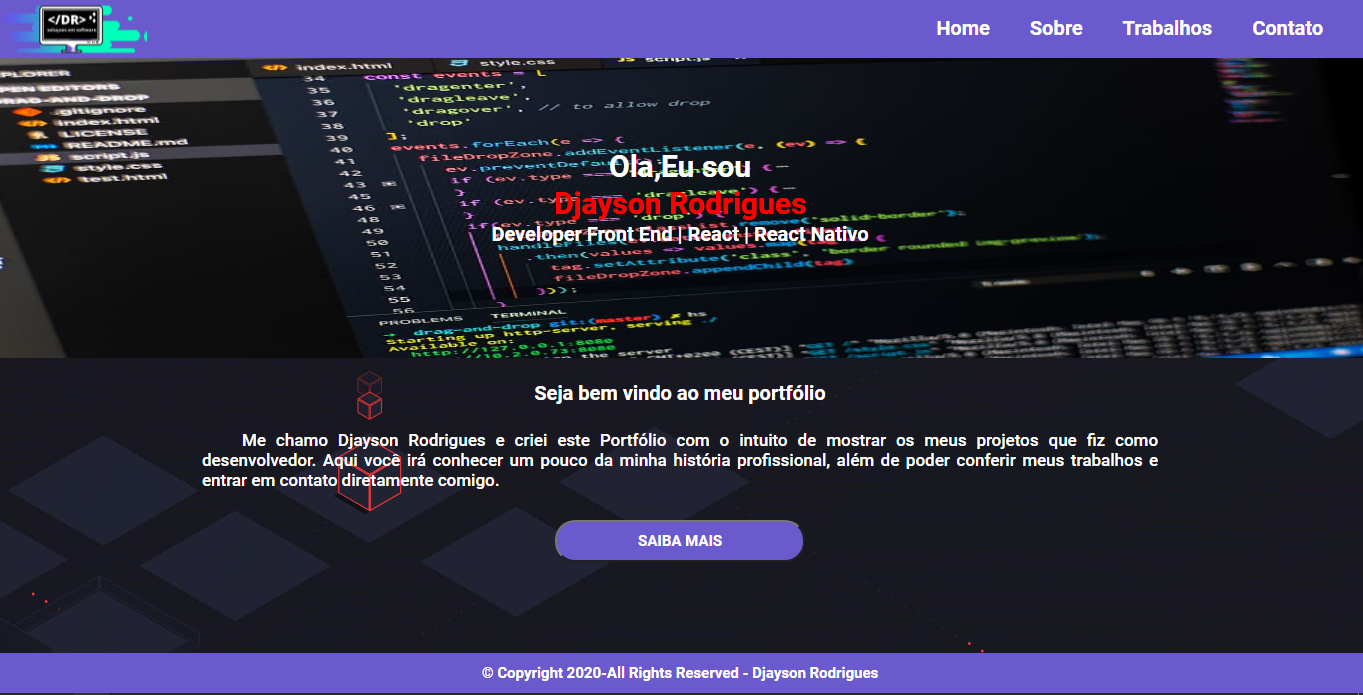
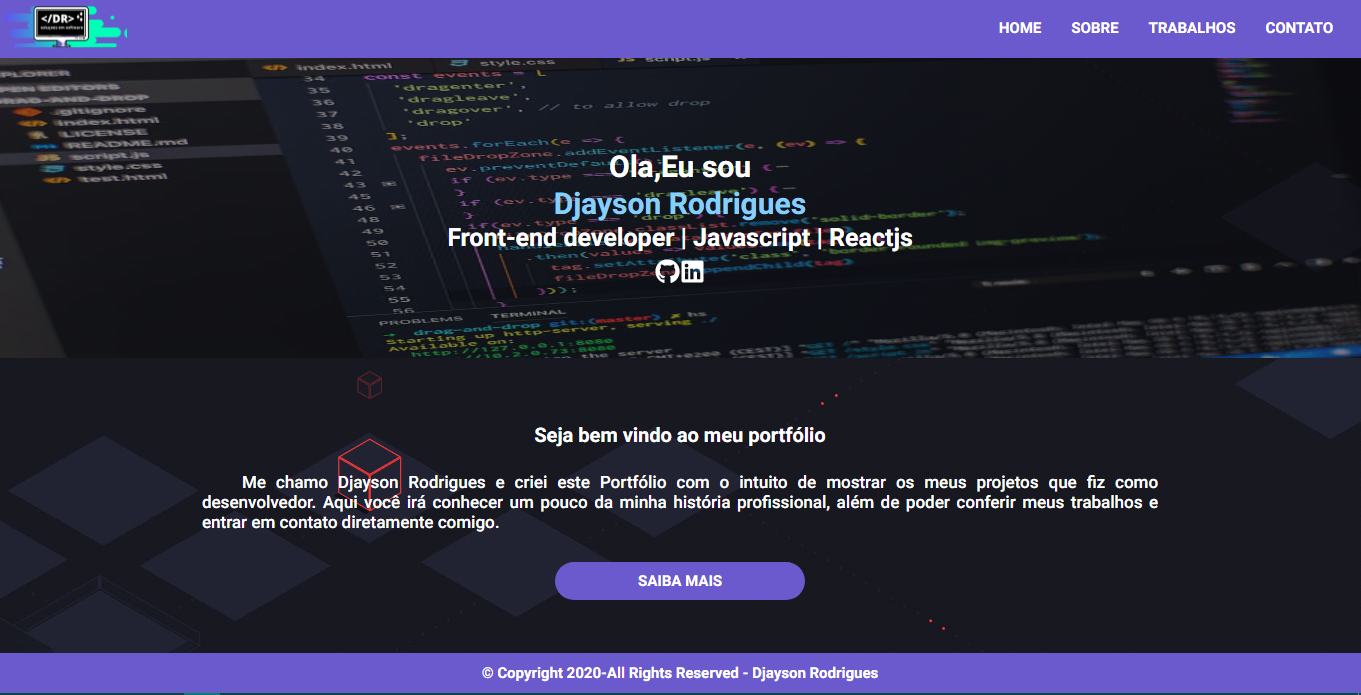
Updating files from project home page

diff --git a/src/components/pages/works/index.js b/src/components/pages/works/index.js
@@ -21,8 +21,8 @@ function Works() {
           </header>
           <img src={Img} alt="Imagem do projeto portifolio" />
           <footer>
-            <button><a target="_blank" href="https://portfolio.djaysson.vercel.app">demo</a></button>
-            <button><a target="_blank" href="https://github.com/Djaysson/Reactjs-portifolio">github</a></button>
+            <button><a target="_blank" rel="noopener noreferrer" href="https://portfolio.djaysson.vercel.app">demo</a></button>
+            <button><a target="_blank" rel="noopener noreferrer" href="https://github.com/Djaysson/Reactjs-portifolio">github</a></button>
           </footer>
         </article>
         <article className="projects">
@@ -32,8 +32,8 @@ function Works() {
           </header>
           <img src={Img2} alt="Imagem do projeto ConvertMyMoney" />
           <footer>
-            <button><a target="_blank" href="https://convertmymoney.vercel.app">demo</a></button>
-            <button><a target="_blank" href="https://github.com/Djaysson/ConvertMyMoney">github</a></button>
+            <button><a target="_blank" rel="noopener noreferrer" href="https://convertmymoney.vercel.app">demo</a></button>
+            <button><a target="_blank" rel="noopener noreferrer" href="https://github.com/Djaysson/ConvertMyMoney">github</a></button>
           </footer>
         </article>
         <article className="projects">
@@ -43,8 +43,8 @@ function Works() {
           </header>
           <img src={Img3} alt="Imagem do projeto PalpiteBox" />
           <footer>
-            <button><a target="_blank" href="https://palpite-box-orpin.vercel.app/">demo</a></button>
-            <button><a target="_blank" href="https://github.com/Djaysson/PalpiteBox">github</a></button>
+            <button><a target="_blank" rel="noopener noreferrer" href="https://palpite-box-orpin.vercel.app/">demo</a></button>
+            <button><a target="_blank" rel="noopener noreferrer" href="https://github.com/Djaysson/PalpiteBox">github</a></button>
           </footer>
         </article>
         <article className="projects">
@@ -54,8 +54,8 @@ function Works() {
           </header>
           <img src={Img4} alt="Imagem do projeto Testes-covid" />
           <footer>
-            <button><a target="_blank" href="https://testes-covid.netlify.app">demo</a></button>
-            <button><a target="_blank" href="https://github.com/Djaysson/Testes-covid">github</a></button>
+            <button><a target="_blank" rel="noopener noreferrer" href="https://testes-covid.netlify.app">demo</a></button>
+            <button><a target="_blank" rel="noopener noreferrer" href="https://github.com/Djaysson/Testes-covid">github</a></button>
           </footer>
         </article>
 

diff --git a/src/components/pages/home/styles.css b/src/components/pages/home/styles.css
@@ -6,9 +6,11 @@
   
 }
 .home img{
-  position: absolute;
+ position: absolute;
   width: 100vw;
-  height: 200px;
+  height: 260px;
+  opacity: 0.5;
+  
   
  
 }
@@ -19,26 +21,34 @@
   justify-content: center;
   align-items: center;
   font-weight: bold;
-  top:90px;
+  top:80px;
   color: #FFF;  
   
 }
 .info h1{
   font-size: 20px;
   animation: lightSpeedInLeft; 
-  animation-duration: 2s; 
+  animation-duration: 3s; 
  
 }
 .info h2{
   font-size: 20px;
-  color:red;
+  color:	#87CEFA;
   animation: lightSpeedInLeft; 
   animation-duration: 3s; 
 }
 .info p{
   font-size: 15px;
   animation: lightSpeedInLeft; 
-  animation-duration: 5s; 
+  animation-duration: 3s; 
+}
+.icons{
+  padding: 7px 0px 0px 0px;
+    display: flex;
+    flex-direction: row;
+    align-items: center;
+    animation: lightSpeedInLeft; 
+  animation-duration: 3s; 
 }
 .content{
   position: relative;
@@ -46,14 +56,14 @@
   flex-direction: column;
   justify-content: center;
   align-items: center;
-  top:150px;
+  top:200px;
   color: #FFF;
-  animation: fadeInUp;  
-  animation-duration: 2s; 
+  animation: lightSpeedInLeft;  
+  animation-duration: 3s; 
   
 }
 .content strong{
-  padding: 20px;  
+  padding: 25px;  
   font-size: 18px;
 }
 .content p{
@@ -61,7 +71,7 @@
   align-items: center;
   width: 85vw;
   text-align: justify;
-  font-size: 12px;
+  font-size: 14px;
   text-indent: 25px;
   
 }
@@ -87,8 +97,21 @@
     height: 90vh;
   }
   .home img{
+    position: absolute;
     width: 100vw;
     height: 300px;
+    opacity: 0.5;
+}
+.info {
+  position: relative;
+  display: flex;
+  flex-direction: column;
+  justify-content: center;
+  align-items: center;
+  font-weight: bold;
+  top:90px;
+  color: #FFF;  
+  
 }
 .info h1{
   font-size: 30px;
@@ -97,14 +120,23 @@
 }
 .info h2{
   font-size: 30px;
-  color:red;
+  color:	#87CEFA;
   
 }
 .info p{
-  font-size: 17px;
+  font-size: 25px;
 }
 .content{
+  position: relative;
+  display: flex;
+  flex-direction: column;
+  justify-content: center;
+  align-items: center;
   top:200px;
+  color: #FFF;
+  animation: lightSpeedInLeft;  
+  animation-duration: 3s; 
+  
 }
 .content strong{
   padding: 25px;  
@@ -112,7 +144,6 @@
 }
 .content p{
   width: 70vw;
-  font-size: 15px;
   font-size: 17px;
   text-indent: 40px;
 }

diff --git a/src/components/header/styles.css b/src/components/header/styles.css
@@ -71,8 +71,8 @@
     align-items: center;
     justify-content: center;
     align-items: center;
-  
-  
+ 
+   
   }
   .menu header nav ul{
     font-weight: bold;
@@ -81,31 +81,51 @@
     justify-content: center;
     align-items: center;
     list-style: none;
+    
   }
+  
 	.menu nav ul{
-		position: fixed;
+		position: absolute;
 		width: 100%;
-    background-color: #6A5ACD;
+    background-color: #695acde7;
+    
 		top: 50px;
 		left: -100%;
 		text-align: center;
-		transition: all .5s;
-	}
+    transition: all .5s;
+   
+  }
+	
+
+  
 	.menu nav ul li{
 		display: block;
 		padding: 9px 0;
-		line-height: 30px;
+    line-height: 30px;
+    
 	}
+
   .menu	nav ul li a {
-		font-size: 12px;
+    font-size: 12px;
+    
   }
+ 
   .checkbtn {
-		display: block;
+    font-size: 30px;
+    color: white;
+    float: right;
+    line-height: 80px;
+    margin-right: 40px;
+    cursor: pointer;
+    display: block;
+
   }
  
 	#check:checked ~ ul {
-		left: 0;
-	}
+    left: 0px;
+    z-index: 1;
+  }
+
 }
 
 

diff --git a/src/components/pages/home/index.js b/src/components/pages/home/index.js
@@ -1,5 +1,6 @@
 import React from 'react';
 import { Link } from "react-router-dom";
+import { FaLinkedin, FaGithub } from "react-icons/fa";
 
 import './styles.css';
 import Img from '../../../assets/coding.jpg';
@@ -8,11 +9,21 @@ const Home = () => {
   return (
 
     <div className="home">
+
       <img src={Img} alt="backgraud" />
       <div className="info">
         <h1>Ola,Eu sou</h1>
         <h2>Djayson Rodrigues</h2>
-        <p>Developer Front End | React | React Nativo</p>
+        <p>Front-end developer | Javascript | Reactjs</p>
+        <div className="icons">
+          <a href="https://github.com/Djaysson" target="_blank" rel="noopener noreferrer">
+            <FaGithub size={25} />
+          </a>
+
+          <a href="https://www.linkedin.com/in/djaysonrodrigues/" target="_blank" rel="noopener noreferrer">
+            <FaLinkedin size={25} />
+          </a>
+        </div>
       </div>
       <div className="content">
         <strong>Seja bem vindo ao meu portfólio</strong>

diff --git a/src/global.css b/src/global.css
@@ -11,6 +11,7 @@
 html, body, #root {
   height: 100vh;
 }
+body { overflow-x: hidden; }
 body,
 input,
 button,
